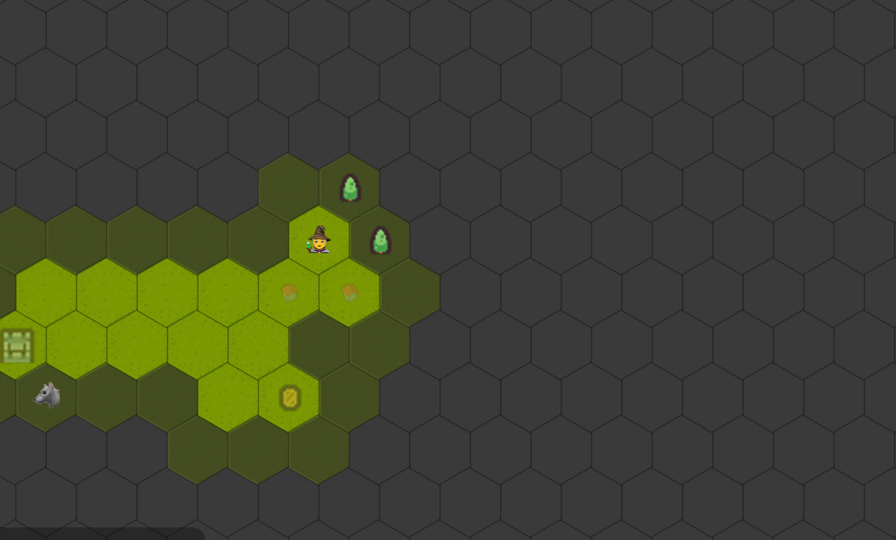
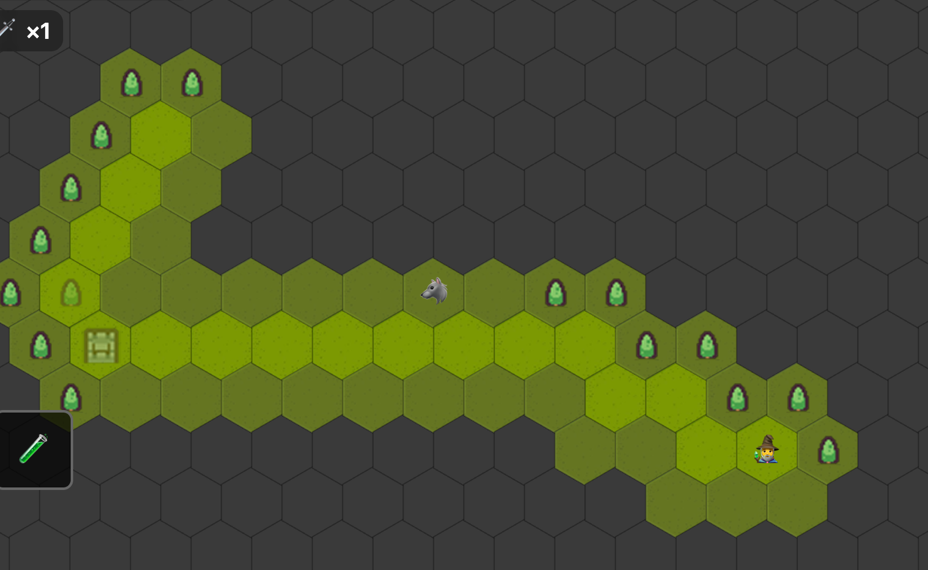
Hex Quest card: new build screenshot and description

diff --git a/index.html b/index.html
@@ -258,7 +258,7 @@
       <div class="shot"><img src="shots/hex.png" alt="Hex Quest — a hex map under fog"></div>
       <div class="body">
         <h2>Hex Quest</h2>
-        <p class="desc">The map is hidden under fog; every click reveals a tile and immediately plays out whatever sits under it. Health, food and swords drain, so you have to keep pushing into new ground.</p>
+        <p class="desc">The map is hidden under fog; every click reveals a tile and plays out whatever sits under it. Health, food and swords drain, so you keep pushing into new ground — with an inventory, gear, sea monsters and 15 playable characters.</p>
         <p class="stack">Canvas · a single HTML file · landscape generation</p>
         <div class="actions">
           <a class="btn btn-play" href="https://johninwork.github.io/hex-quest/">Play</a>
